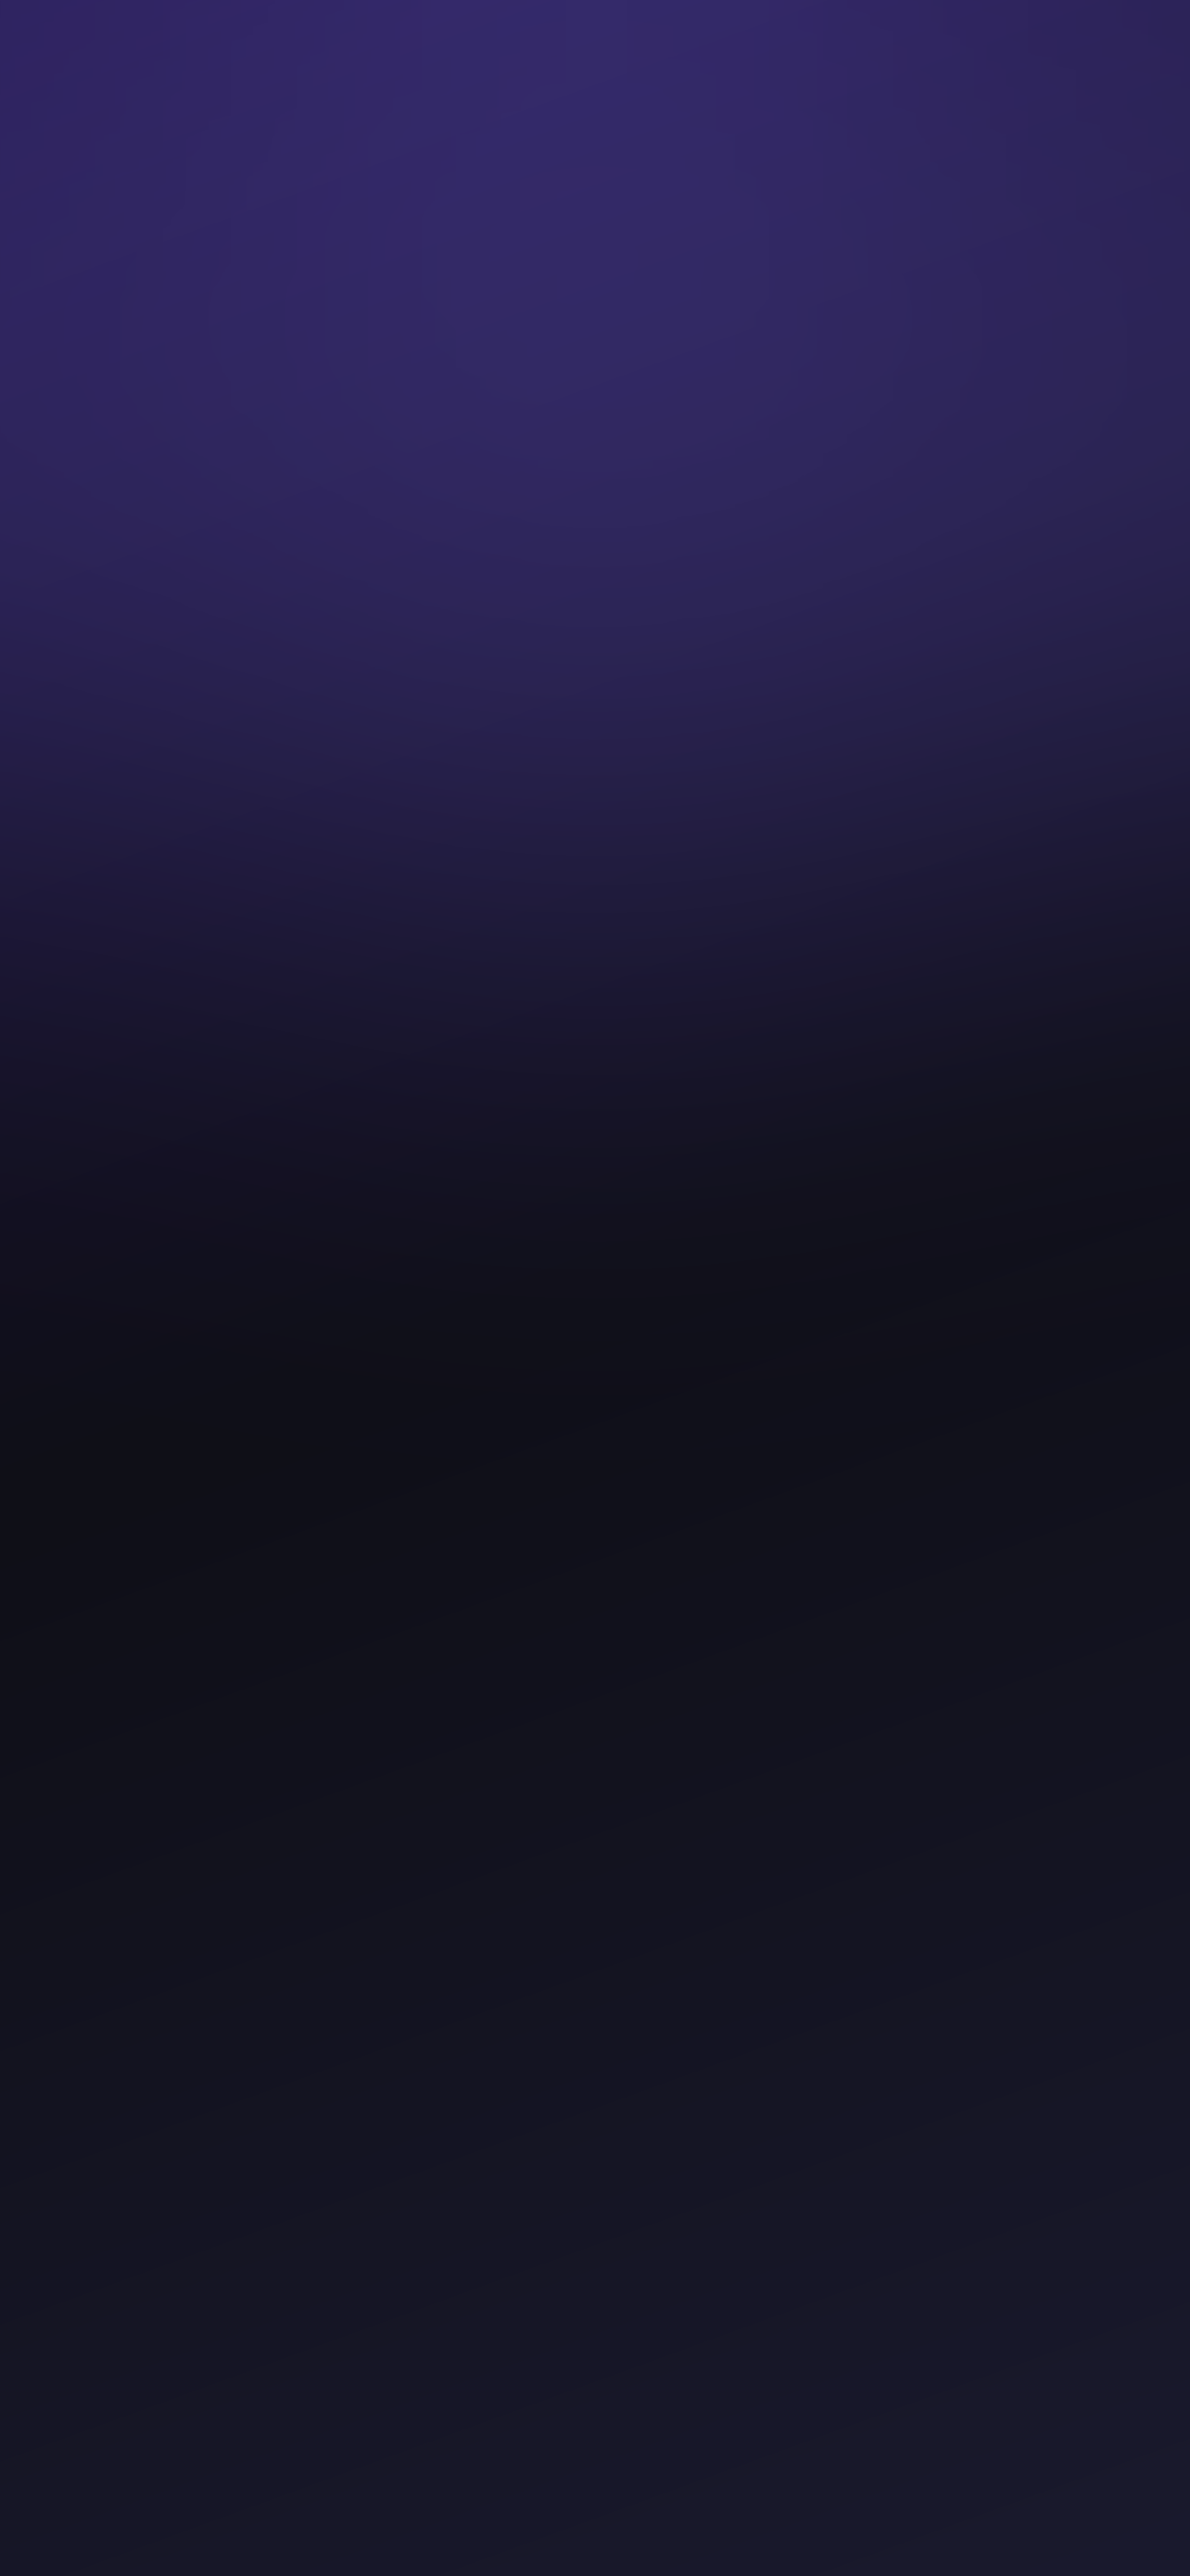
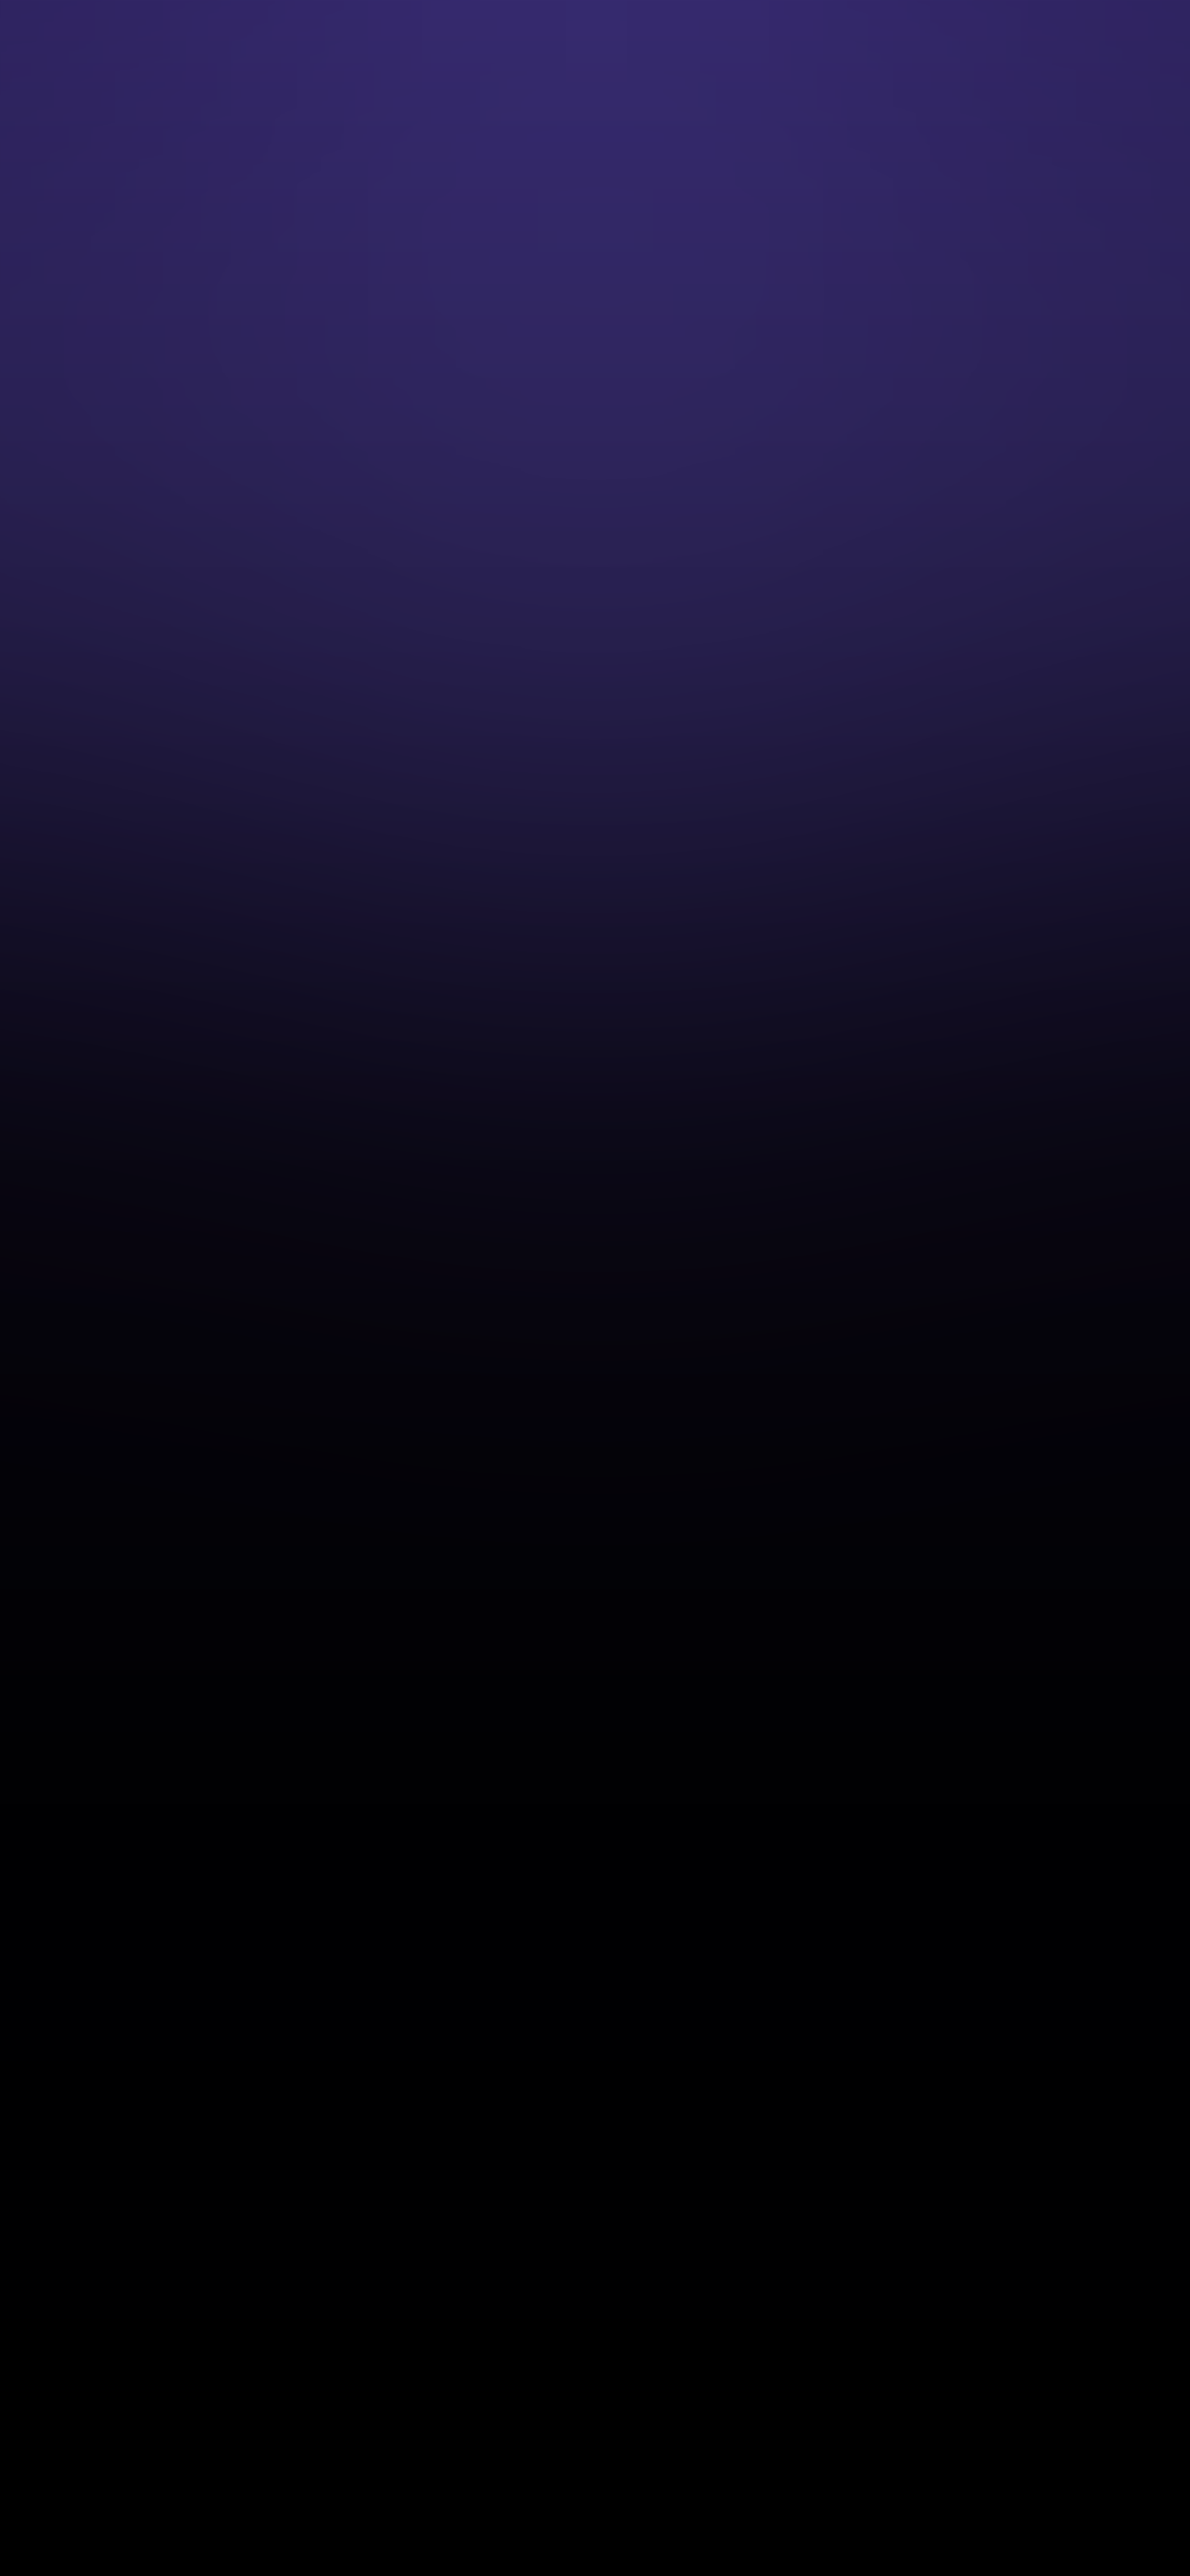
Feat: menu de opciones (bottom sheet) con efecto glass consistente con la tab bar
BottomSheetMenu.tsx es un componente compartido (7 usos). Cuando no se pasa
backgroundColor explicito, ahora usa el mismo BlurView + velo de color sutil
que la tab bar flotante, en modo claro y oscuro, en vez del backgroundColor
solido colors.surface. Afecta al menu Opciones de Guiones, Proyectos y
Grabaciones, y al menu de studio-v2.tsx y ScriptCard.tsx, que tampoco
personalizaban el color.

casting.tsx y car.tsx pasan su propio backgroundColor y quedan sin cambios.

Tambien corrige el color del drag handle para que sea visible en modo claro.

Claude-Session: https://claude.ai/code/session_01T9aeoACDTQ6j9wBFmtueCq

diff --git a/components/BottomSheetMenu.tsx b/components/BottomSheetMenu.tsx
@@ -1,5 +1,6 @@
 import React, { useRef, useEffect, useState } from 'react';
 import { View, Text, Pressable, Modal, StyleSheet, ScrollView, Animated, PanResponder, Dimensions } from 'react-native';
+import { BlurView } from 'expo-blur';
 import { useSafeAreaInsets } from 'react-native-safe-area-context';
 import { useTheme } from '@/contexts/ThemeContext';
 
@@ -15,7 +16,7 @@ export interface BottomSheetMenuProps {
 const { height: SCREEN_HEIGHT } = Dimensions.get('window');
 
 export function BottomSheetMenu({ visible, onClose, title, children, backgroundColor, titleColor }: BottomSheetMenuProps) {
-  const { colors } = useTheme();
+  const { colors, isDark } = useTheme();
   const insets = useSafeAreaInsets();
   
   const [modalVisible, setModalVisible] = useState(visible);
@@ -107,10 +108,17 @@ export function BottomSheetMenu({ visible, onClose, title, children, backgroundC
 
   if (!modalVisible) return null;
 
+  // Sin backgroundColor explícito -> mismo efecto glass que la tab bar flotante
+  // (BlurView + velo de color sutil). Las pantallas que sí pasan un color propio
+  // (casting.tsx, car.tsx) mantienen su panel sólido intacto.
+  const useGlass = !backgroundColor;
   const bgColor = backgroundColor || colors.surface;
   const isHex = bgColor.startsWith('#');
   // Leve transparencia (90% de opacidad)
   const transparentBg = (isHex && bgColor.length === 7) ? `${bgColor}E6` : bgColor;
+  const glassOverlayTint = isDark ? 'rgba(128,128,128,0.25)' : 'rgba(235,230,245,0.22)';
+  const glassTitleColor = isDark ? '#FFFFFF' : '#2A1B47';
+  const glassHandleColor = isDark ? 'rgba(255,255,255,0.35)' : 'rgba(42,27,71,0.35)';
 
   return (
     <Modal
@@ -126,37 +134,46 @@ export function BottomSheetMenu({ visible, onClose, title, children, backgroundC
       </Animated.View>
 
       {/* Panel deslizable desde abajo */}
-      <Animated.View 
+      <Animated.View
         {...panResponder.panHandlers}
-        style={[styles.bottomSheet, {
-          backgroundColor: transparentBg,
-          paddingBottom: Math.max(insets.bottom, 20),
-          transform: [{ translateY }]
-        }]}
+        style={[styles.bottomSheet, { transform: [{ translateY }] }]}
       >
-        <View style={{ width: '100%' }}>
-          {/* Handle */}
-          <View style={styles.handle} />
-
-          {title && (
-            <Text style={[styles.title, { color: titleColor || colors.text }]}>
-              {title}
-            </Text>
+        {/* Recorta el fondo (blur o sólido) a las esquinas redondeadas, sin tocar
+            la sombra del contenedor exterior (overflow:hidden + shadow no combinan en iOS) */}
+        <View style={[styles.clip, { paddingBottom: Math.max(insets.bottom, 20) }]}>
+          {useGlass ? (
+            <>
+              <BlurView intensity={isDark ? 70 : 65} tint={isDark ? 'dark' : 'light'} style={StyleSheet.absoluteFill} />
+              <View style={[StyleSheet.absoluteFill, { backgroundColor: glassOverlayTint }]} />
+            </>
+          ) : (
+            <View style={[StyleSheet.absoluteFill, { backgroundColor: transparentBg }]} />
           )}
-        </View>
 
-        <ScrollView 
-          bounces={false} 
-          style={{ flexShrink: 1, width: '100%' }}
-          contentContainerStyle={styles.scrollContent}
-          showsVerticalScrollIndicator={true}
-          onScroll={(e) => {
-            scrollY.current = e.nativeEvent.contentOffset.y;
-          }}
-          scrollEventThrottle={16}
-        >
-          {children}
-        </ScrollView>
+          <View style={{ width: '100%' }}>
+            {/* Handle */}
+            <View style={[styles.handle, useGlass && { backgroundColor: glassHandleColor }]} />
+
+            {title && (
+              <Text style={[styles.title, { color: titleColor || (useGlass ? glassTitleColor : colors.text) }]}>
+                {title}
+              </Text>
+            )}
+          </View>
+
+          <ScrollView
+            bounces={false}
+            style={{ flexShrink: 1, width: '100%' }}
+            contentContainerStyle={styles.scrollContent}
+            showsVerticalScrollIndicator={true}
+            onScroll={(e) => {
+              scrollY.current = e.nativeEvent.contentOffset.y;
+            }}
+            scrollEventThrottle={16}
+          >
+            {children}
+          </ScrollView>
+        </View>
       </Animated.View>
     </Modal>
   );
@@ -173,15 +190,18 @@ const styles = StyleSheet.create({
     bottom: 0,
     left: 0,
     right: 0,
-    borderTopLeftRadius: 20,
-    borderTopRightRadius: 20,
-    paddingTop: 8,
     shadowColor: '#000',
     shadowOffset: { width: 0, height: -3 },
     shadowOpacity: 0.3,
     shadowRadius: 10,
     elevation: 10,
     maxHeight: '80%', // To prevent it from taking the whole screen if there are many items
+  },
+  clip: {
+    borderTopLeftRadius: 20,
+    borderTopRightRadius: 20,
+    paddingTop: 8,
+    overflow: 'hidden',
   },
   handle: {
     width: 36,
